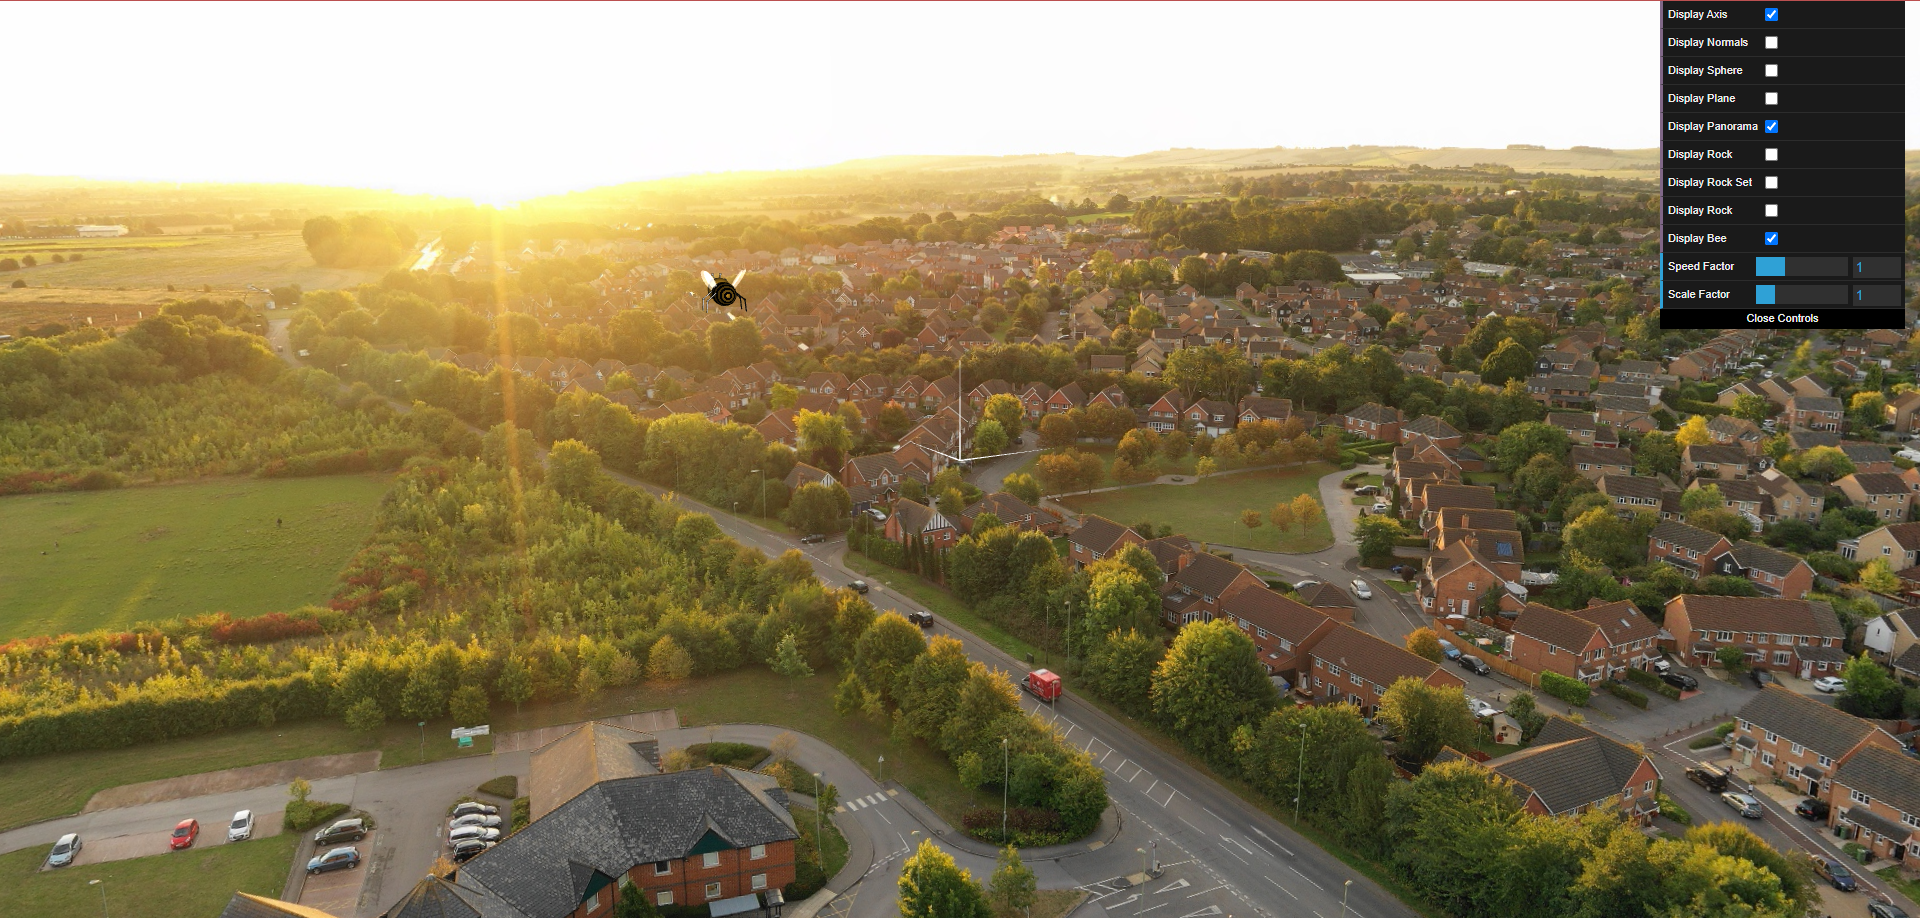
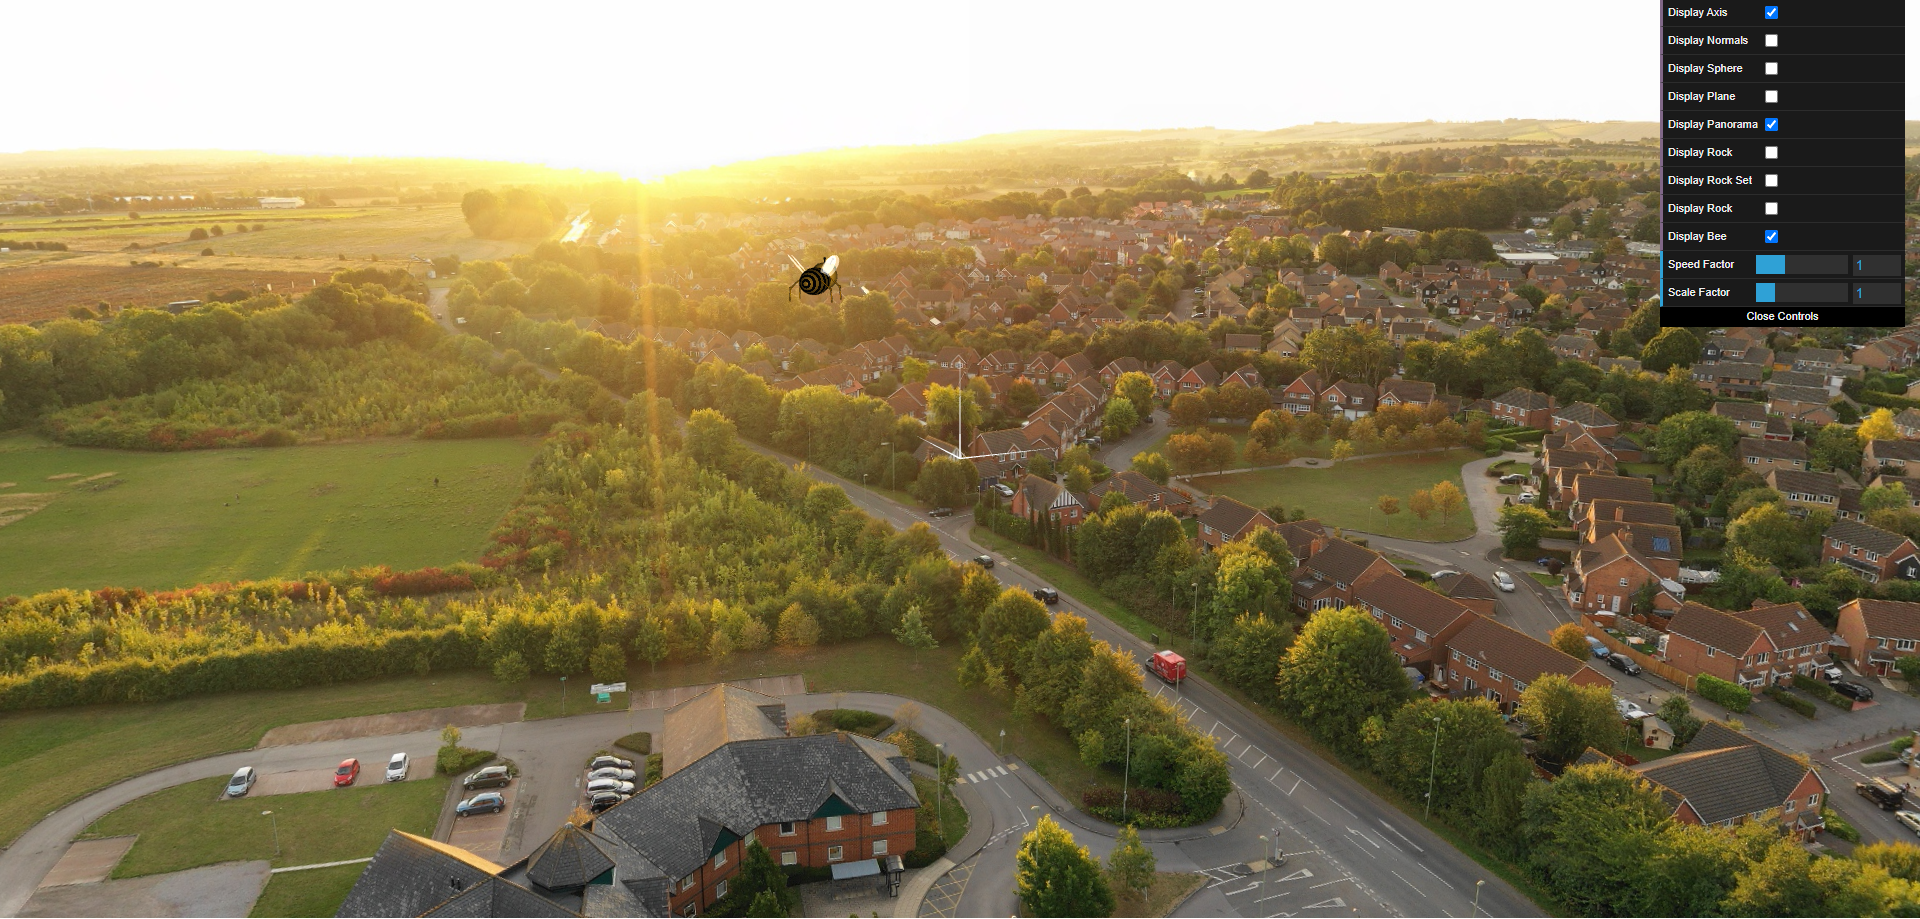
added more bee textures

diff --git a/project/MyScene.js b/project/MyScene.js
@@ -33,6 +33,8 @@ export class MyScene extends CGFscene {
     this.gl.depthFunc(this.gl.LEQUAL);
     this.gl.blendFunc(this.gl.SRC_ALPHA, this.gl.ONE_MINUS_SRC_ALPHA);
     this.gl.enable(this.gl.BLEND);
+    this.gl.frontFace(this.gl.CWW);
+
 
     //Initialize scene parameters
     this.speedFactor = 1; 
@@ -66,6 +68,9 @@ export class MyScene extends CGFscene {
     this.texture_earth = new CGFtexture(this, "images/earth.jpg");
     this.texture_rock = new CGFtexture(this, "images/rock_texture.jpg");
     this.texture_bee = new CGFtexture(this, "images/bee_texture.jpg");
+    this.texture_bee_antennae = new CGFtexture(this, "images/bee_antennae.jpg");
+    this.texture_bee_leg = new CGFtexture(this, "images/bee_leg.jpg");
+    this.texture_bee_eye = new CGFtexture(this, "images/bee_eye.png");
     
 
     //Appearances
@@ -73,7 +78,6 @@ export class MyScene extends CGFscene {
     this.appearance_earth.setTexture(this.texture_earth);
     this.appearance_earth.setTextureWrap('REPEAT', 'REPEAT');
   
-
     this.appearance_terrain = new CGFappearance(this);
     this.appearance_terrain.setTexture(this.texture_terrain);
     this.appearance_terrain.setTextureWrap('REPEAT', 'REPEAT');
@@ -86,6 +90,17 @@ export class MyScene extends CGFscene {
     this.appearance_bee.setTexture(this.texture_bee);
     this.appearance_bee.setTextureWrap('CLAMP_TO_EDGE', 'CLAMP_TO_EDGE');
 
+    this.appearance_bee_antennae = new CGFappearance(this);
+    this.appearance_bee_antennae.setTexture(this.texture_bee_antennae);
+    this.appearance_bee_antennae.setTextureWrap('REPEAT', 'REAPEAT');
+
+    this.appearance_bee_leg = new CGFappearance(this);
+    this.appearance_bee_leg.setTexture(this.texture_bee_leg);
+    this.appearance_bee_leg.setTextureWrap('REPEAT', 'REPEAT');
+
+    this.appearance_bee_eye = new CGFappearance(this);
+    this.appearance_bee_eye.setTexture(this.texture_bee_eye);
+    this.appearance_bee_eye.setTextureWrap('REPEAT', 'REPEAT');
 
 
 

diff --git a/project/Objects/MyLeg.js b/project/Objects/MyLeg.js
@@ -28,6 +28,7 @@ export class MyLeg extends CGFobject {
         //Display Top Leg
         this.scene.pushMatrix();
         this.toplegMaterial.apply();
+        this.scene.appearance_bee_leg.apply();
         this.scene.rotate(90 * (Math.PI / 180),0,1,0);
         this.topleg.display();
         this.scene.popMatrix();
@@ -35,6 +36,7 @@ export class MyLeg extends CGFobject {
         //Display Ankle
         this.scene.pushMatrix();
         this.ankleMaterial.apply();
+        this.scene.appearance_bee_leg.apply();
         this.scene.rotate(90 * (Math.PI / 180),0,1,0);
         this.scene.translate(0,0,1);
         this.scene.scale(0.1,0.1,0.1);
@@ -44,6 +46,7 @@ export class MyLeg extends CGFobject {
         //Display Bottom Leg
         this.scene.pushMatrix();
         this.bottomlegMaterial.apply();
+        this.scene.appearance_bee_leg.apply();
         this.scene.rotate(90 * (Math.PI / 180),0,1,0);
         this.scene.translate(0,0,1);
         this.scene.rotate(45 * (Math.PI / 180),1,0,0);

diff --git a/project/MyBee.js b/project/MyBee.js
@@ -84,6 +84,7 @@ export class MyBee extends CGFobject {
         this.velocity[0] = speed * Math.sin(this.orientation);
         this.velocity[2] = speed * Math.cos(this.orientation);
 
+        console.log(this.velocity);
     }
 
     reset(){
@@ -155,7 +156,7 @@ export class MyBee extends CGFobject {
         //Display Front Right Leg
         this.scene.pushMatrix();
         this.scene.translate(-0.8,0,-1);
-        this.scene.scale(-1, 1, 1);
+        this.scene.rotate(Math.PI, 0, 1, 0);
         this.scene.rotate(-40 * (Math.PI / 180),0,0,1);
         this.frontRightLeg.display();
         this.scene.popMatrix();
@@ -170,7 +171,7 @@ export class MyBee extends CGFobject {
         //Display Back Right Leg
         this.scene.pushMatrix();
         this.scene.translate(-0.8,0,-3);
-        this.scene.scale(-1, 1, 1);
+        this.scene.rotate(Math.PI, 0, 1, 0);
         this.scene.rotate(-40 * (Math.PI / 180),0,0,1);
         this.backRightLeg.display();
         this.scene.popMatrix();

diff --git a/project/Objects/MyAntenna.js b/project/Objects/MyAntenna.js
@@ -25,6 +25,7 @@ export class MyAntenna extends CGFobject {
         //Display Antenna Flagellum
         this.scene.pushMatrix();
         this.antennaScapeMaterial.apply();
+        this.scene.appearance_bee_antennae.apply();
         this.scene.rotate(-45 * (Math.PI / 180),1,0,0);
         this.antennaScape.display();
         this.scene.popMatrix();
@@ -32,6 +33,7 @@ export class MyAntenna extends CGFobject {
         //Display Antenna Scape
         this.scene.pushMatrix();
         this.antennaFlagellumMaterial.apply();
+        this.scene.appearance_bee_antennae.apply();
         this.scene.rotate(-45 * (Math.PI / 180),1,0,0);
         this.scene.translate(0,0,1);
         this.scene.scale(0.1,0.1,0.1);

diff --git a/project/Objects/MyEye.js b/project/Objects/MyEye.js
@@ -23,6 +23,7 @@ export class MyEye extends CGFobject {
     display(){
         this.scene.pushMatrix();
         this.eyeMaterial.apply();
+        this.scene.appearance_bee_eye.apply();
         this.scene.scale(0.2,0.4,0.2);
         this.eye.display();
         this.scene.popMatrix();
